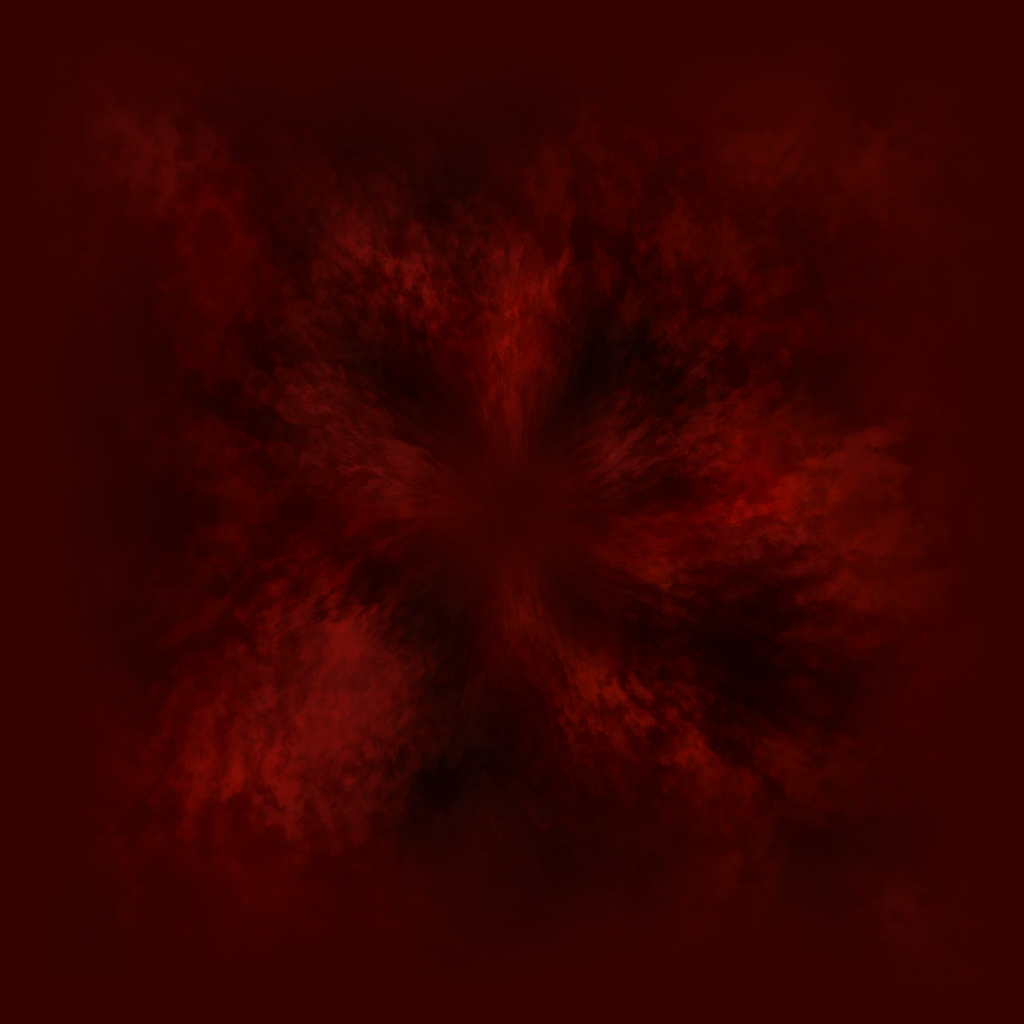
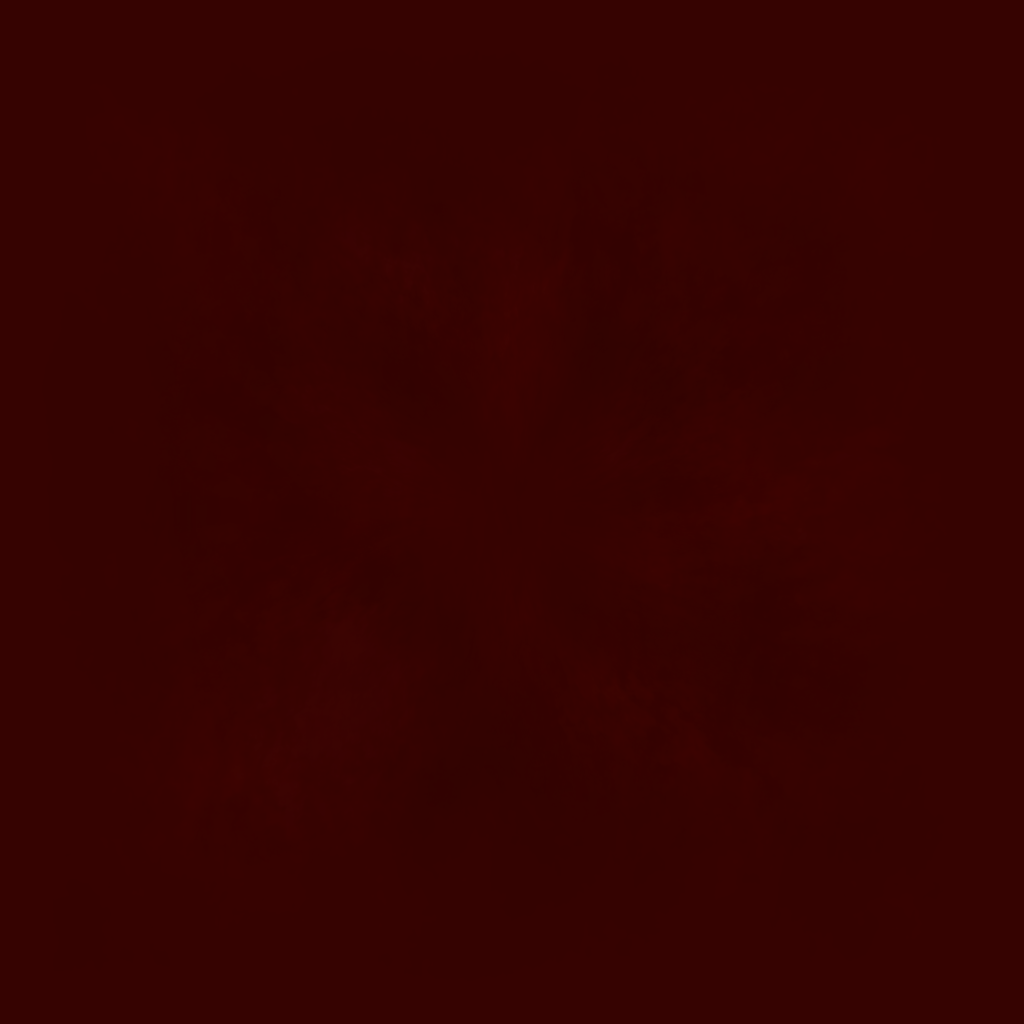
Blend ZDCMP1 Hell sky zenith into cube walls

diff --git a/tools/generate_zdcmp1_skycube.py b/tools/generate_zdcmp1_skycube.py
@@ -100,7 +100,10 @@ def render(name):
     U, V = np.meshgrid(position, position)
     distance = np.minimum(np.minimum(U, 1.0-U), np.minimum(V, 1.0-V))
     top_weight = smoothstep(0.0, 0.30, distance)[..., None]
-    faces['top'] = cap * (1.0-top_weight) + faces['top'] * top_weight
+    # The red source has much stronger high-cloud contrast. Keep its zenith
+    # restrained so the flat/wall transition stays invisible in live views.
+    strength = 0.10 if name == 'hell' else 1.0
+    faces['top'] = cap * (1.0-top_weight*strength) + faces['top'] * (top_weight*strength)
     wall_weight = smoothstep(0.0, 0.32, V)[..., None]
     for face in 'nwse':
         faces[face] = cap * (1.0-wall_weight) + faces[face] * wall_weight
@@ -115,7 +118,7 @@ def render(name):
         moved = np.roll(clouds, shift, axis=1)
         moved = np.asarray(Image.fromarray(np.uint8(np.rint(moved*255)))
                            .resize((SIZE, SIZE), Image.Resampling.BILINEAR), dtype=np.float32) / 255.0
-        motion = 1.0 + (moved[..., None]-0.5) * 0.12 * top_weight
+        motion = 1.0 + (moved[..., None]-0.5) * (0.05 if name == 'hell' else 0.12) * top_weight
         frame = np.uint8(np.clip(np.rint(faces['top'] * motion), 0, 255))
         Image.fromarray(frame).save(DEST / f'{name}-top-{index:02d}.png', optimize=True)
 

diff --git a/_docs/zdcmp1/REMASTER.md b/_docs/zdcmp1/REMASTER.md
@@ -51,6 +51,9 @@ The four landscape faces never animate. The upper wall and cap edges
 fade into the same high-altitude sky colour so the ceiling remains
 continuous in real player views despite GZDoom's differing wall/flat UV
 mapping. This edge treatment does not affect the mountain silhouettes.
+The Hell zenith uses lower high-cloud contrast than the outdoor zenith
+because the red source made the flat/wall boundary visible in wide
+gameplay views; its wall clouds and volcanic landscape remain textured.
 
 Each cap has eight ANIMDEFS frames. A separately generated, tileable
 cloud mask shifts by at most 16 pixels across those frames and modulates
